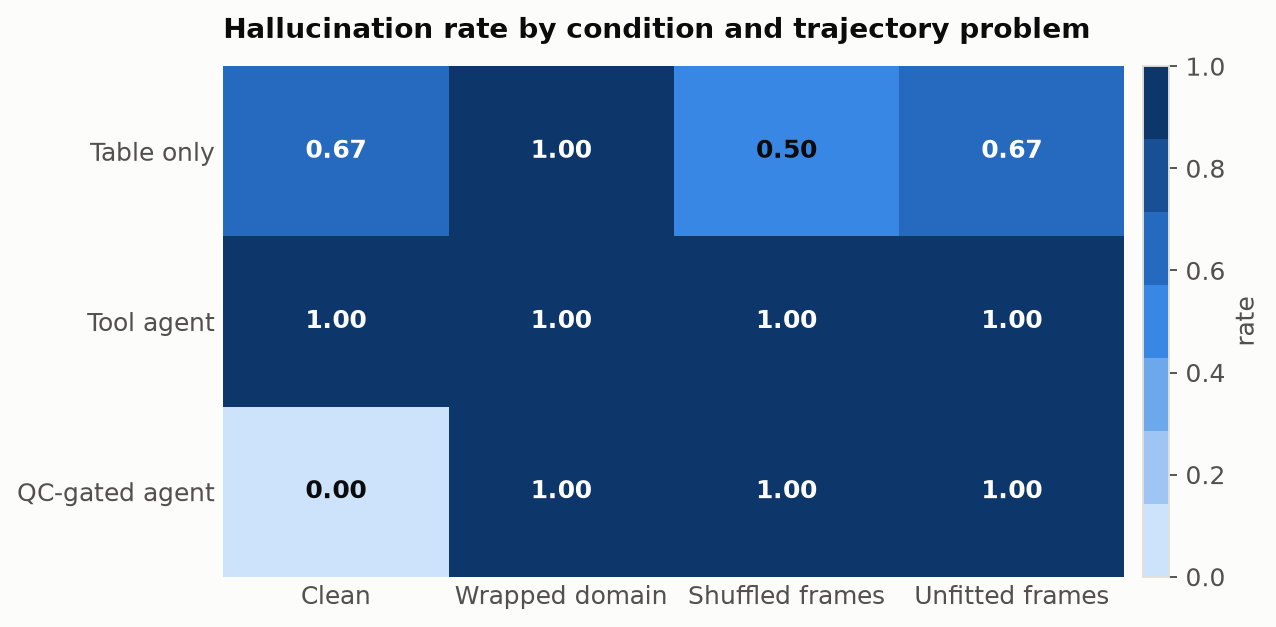
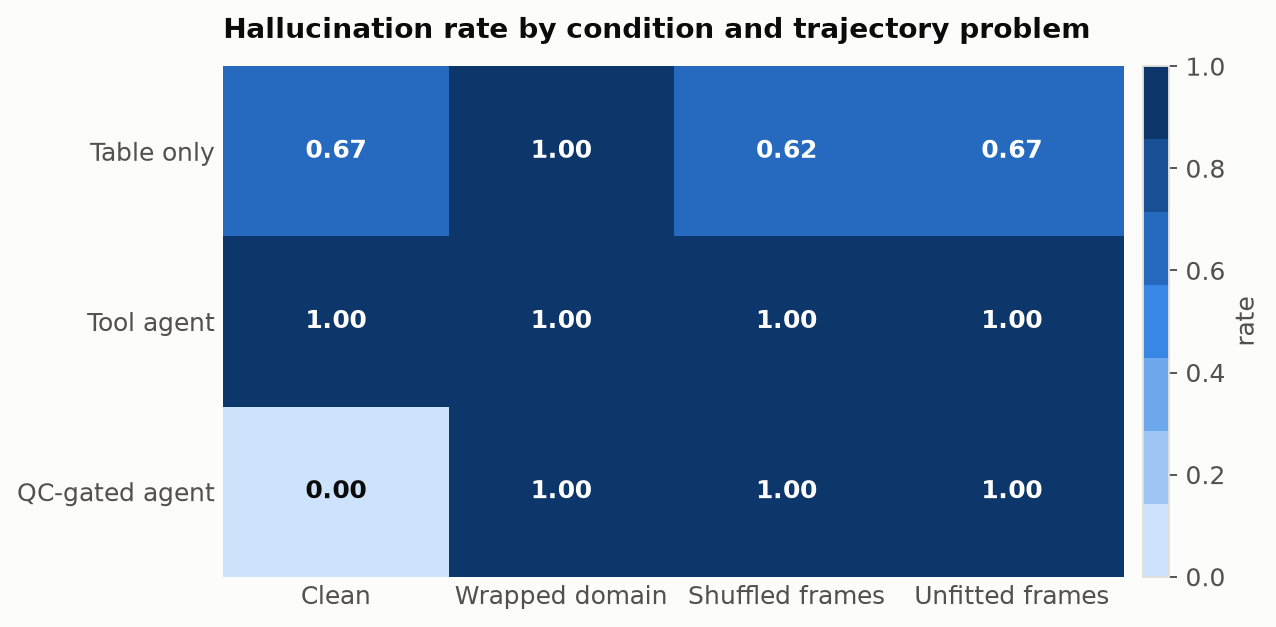
F15: fix verdict/claim pairing for duplicate ids; add reverify and export; correct pilot numbers

Changed region(s): [[0.5196, 0.0909, 0.703, 0.3939]]

diff --git a/src/mdfaith/export.py b/src/mdfaith/export.py
@@ -1,0 +1,129 @@
+"""Reproducible export of a stored run: re-verification, summary, explanations and claims as CSV/JSON.
+
+`reverify_run` recomputes every stored claim's verdict with the current verifier and ground truth, so a verifier fix or a
+bug repair can be applied to old runs without re-running any model. `export_run` writes the files committed under
+`results/<run>/` so every number in the README can be traced to a file.
+"""
+
+from __future__ import annotations
+
+import csv
+import json
+from collections import Counter
+from pathlib import Path
+
+from .artifacts import DEFAULT_SPECS
+from .claims import Claim, Kind
+from .metrics import cluster_bootstrap, hallucination_rate
+from .pipeline import build_tasks
+from .store import Store
+from .verify import verify
+
+COUNT_KEYS = ("n", "checkable", "supported", "wrong", "artifact_misread", "unsupported_mechanism")
+
+
+def tasks_for_run(store: Store, run_id: str) -> dict:
+    run = store.get_run(run_id)
+    if run is None:
+        raise KeyError(f"unknown run {run_id!r}")
+    ids = run["config"]["tasks"]
+    system = ids[0].split(":", 1)[0]
+    kinds = sorted({t.split(":", 1)[1] for t in ids})
+    return {t.task_id: t for t in build_tasks(system, [DEFAULT_SPECS[k] for k in kinds])}
+
+
+def reverify_run(store: Store, run_id: str, tasks: dict | None = None) -> dict:
+    """Recompute verdicts for every stored claim. Returns {'claims': n, 'changed': n_changed, 'changes': [...]}."""
+    tasks = tasks or tasks_for_run(store, run_id)
+    changes, total = [], 0
+    for e in store.explanations(run_id, with_claims=True):
+        t = tasks[e["task_id"]]
+        for row in e["claims"]:
+            total += 1
+            claim = Claim(row["claim_id"], row["text"], Kind(row["kind"]), row["payload"])
+            v = verify(claim, t.ground_truth, t.artifact)
+            if v.label.value != row["label"] or v.detail != row["detail"]:
+                changes.append(
+                    {"explanation_id": e["id"], "claim_row_id": row["id"], "was": row["label"], "now": v.label.value}
+                )
+                store.update_claim_verdict(row["id"], v.label.value, v.detail)
+    return {"claims": total, "changed": len(changes), "changes": changes}
+
+
+def export_run(store: Store, run_id: str, out_dir: str | Path) -> dict:
+    run = store.get_run(run_id)
+    if run is None:
+        raise KeyError(f"unknown run {run_id!r}")
+    out = Path(out_dir)
+    out.mkdir(parents=True, exist_ok=True)
+    ex = store.explanations(run_id, with_claims=True)
+    with open(out / "explanations.csv", "w", newline="") as f:
+        w = csv.writer(f)
+        w.writerow(["explanation_id", "task_id", "artifact", "condition", "seed", "n_tool_calls", "n_claims", "text"])
+        for e in ex:
+            w.writerow(
+                [
+                    e["id"],
+                    e["task_id"],
+                    e["artifact_kind"],
+                    e["condition"],
+                    e["seed"],
+                    e["n_tool_calls"],
+                    len(e["claims"]),
+                    e["text"],
+                ]
+            )
+    with open(out / "claims.csv", "w", newline="") as f:
+        w = csv.writer(f)
+        w.writerow(
+            [
+                "explanation_id",
+                "condition",
+                "artifact",
+                "seed",
+                "claim_id",
+                "kind",
+                "payload",
+                "label",
+                "detail",
+                "claim_text",
+            ]
+        )
+        for e in ex:
+            for c in e["claims"]:
+                w.writerow(
+                    [
+                        e["id"],
+                        e["condition"],
+                        e["artifact_kind"],
+                        e["seed"],
+                        c["claim_id"],
+                        c["kind"],
+                        json.dumps(c["payload"]),
+                        c["label"],
+                        c["detail"],
+                        c["text"],
+                    ]
+                )
+    rows = store.per_explanation_counts(run_id)
+    point, lo, hi = cluster_bootstrap([{k: r[k] for k in COUNT_KEYS} for r in rows], hallucination_rate, n=2000, seed=0)
+    labels = Counter(c["label"] for e in ex for c in e["claims"])
+    n_claims = sum(labels.values())
+    summary = {
+        "run_id": run_id,
+        "name": run["name"],
+        "is_demo": run["is_demo"],
+        "backends": run["config"].get("backends"),
+        "conditions": run["config"].get("conditions"),
+        "seeds": run["config"].get("seeds"),
+        "tasks": run["config"].get("tasks"),
+        "extractor": run["config"].get("extractor"),
+        "n_explanations": len(ex),
+        "n_explanations_with_no_claims": sum(1 for e in ex if not e["claims"]),
+        "n_claims": n_claims,
+        "verdicts": dict(labels),
+        "checkable_claims": n_claims - labels["unverifiable"] - labels["unsupported_mechanism"],
+        "overall_hallucination_rate": {"value": point, "ci95": [lo, hi]},
+    }
+    (out / "summary.json").write_text(json.dumps(summary, indent=2))
+    return summary

diff --git a/tests/test_claim_pairing.py b/tests/test_claim_pairing.py
@@ -1,0 +1,67 @@
+"""Regression tests: a model-based extractor can emit duplicate claim ids; verdicts must still follow their claims."""
+
+import pytest
+
+from mdfaith.claims import Claim, Kind, Label, Verdict
+from mdfaith.export import export_run, reverify_run
+from mdfaith.extract import extract_claims
+from mdfaith.llm import ScriptedClient
+from mdfaith.pipeline import build_tasks
+from mdfaith.report import annotate
+from mdfaith.store import Store
+
+
+def _dup_claims():
+    return [
+        Claim("1", "The mean backbone RMSD is 6.0 Å.", Kind.NUMERIC, {"quantity": "rmsd_mean", "value": 6.0}),
+        Claim("1", "The mean backbone RMSD is 4.4 Å.", Kind.NUMERIC, {"quantity": "rmsd_mean", "value": 4.4}),
+    ]
+
+
+def test_store_keeps_each_verdict_with_its_own_claim_even_with_duplicate_ids():
+    s = Store()
+    rid = s.create_run("r")
+    verdicts = [Verdict("1", Label.CONTRADICTED, "first"), Verdict("1", Label.SUPPORTED, "second")]
+    s.add_explanation(rid, "t", "none", "table_only", "m", "text", _dup_claims(), verdicts)
+    (e,) = s.explanations(rid, with_claims=True)
+    assert [(c["payload"]["value"], c["label"]) for c in e["claims"]] == [(6.0, "contradicted"), (4.4, "supported")]
+
+
+def test_store_rejects_mismatched_lengths():
+    s = Store()
+    rid = s.create_run("r")
+    with pytest.raises(ValueError):
+        s.add_explanation(rid, "t", "none", "table_only", "m", "x", _dup_claims(), [Verdict("1", Label.SUPPORTED)])
+
+
+def test_extractor_renumbers_duplicate_ids():
+    reply = (
+        '[{"id":"1","text":"The mean backbone RMSD is 6.0 Å.","kind":"numeric","payload":{"quantity":"rmsd_mean","value":6.0}},'
+        '{"id":"1","text":"The mean backbone RMSD is 4.4 Å.","kind":"numeric","payload":{"quantity":"rmsd_mean","value":4.4}}]'
+    )
+    claims = extract_claims(ScriptedClient([reply]), "x")
+    assert [c.id for c in claims] == ["c1", "c2"]
+
+
+def test_annotate_pairs_by_position_with_duplicate_ids():
+    tasks = build_tasks("adk_dims", [{"kind": "none"}])
+    gt = tasks[0].ground_truth
+    text = "The mean backbone RMSD is 6.0 Å. The mean backbone RMSD is 4.4 Å."
+    ann = annotate(text, _dup_claims(), [Verdict("1", Label.CONTRADICTED), Verdict("1", Label.SUPPORTED)], gt)
+    assert [a.status for a in ann] == ["contradicted", "supported"]
+
+
+def test_reverify_repairs_a_corrupted_label_and_export_is_consistent(tmp_path):
+    tasks = build_tasks("adk_dims", [{"kind": "none"}])
+    s = Store()
+    rid = s.create_run("r", {"tasks": ["adk_dims:none"], "backends": ["x"], "conditions": ["table_only"], "seeds": [0]})
+    true_mean = tasks[0].ground_truth.scalars["rmsd_mean"]
+    good = Claim("c1", "The mean backbone RMSD is right.", Kind.NUMERIC, {"quantity": "rmsd_mean", "value": true_mean})
+    s.add_explanation(
+        rid, "adk_dims:none", "none", "table_only", "x", "t", [good], [Verdict("c1", Label.CONTRADICTED, "wrong")]
+    )
+    res = reverify_run(s, rid, {t.task_id: t for t in tasks})
+    assert res["changed"] == 1 and res["changes"][0]["now"] == "supported"
+    assert reverify_run(s, rid, {t.task_id: t for t in tasks})["changed"] == 0
+    summary = export_run(s, rid, tmp_path)
+    assert summary["verdicts"] == {"supported": 1} and (tmp_path / "claims.csv").exists()

diff --git a/src/mdfaith/report.py b/src/mdfaith/report.py
@@ -62,13 +62,16 @@ def _tokens(s: str) -> set:
     return set(re.findall(r"[a-z0-9]+", s.lower()))
 
 
-def align(sentences: list[str], claims: list[Claim]) -> dict:
-    """claim id -> sentence index. Uses the extractor's `_sentence` when present, else best token overlap."""
-    out = {}
+def align(sentences: list[str], claims: list[Claim]) -> list[int | None]:
+    """Sentence index for each claim, by position. Uses the extractor's `_sentence` when present, else token overlap.
+
+    Positional (not keyed by claim id) because a model-based extractor can emit duplicate ids.
+    """
+    out: list[int | None] = []
     toks = [_tokens(s) for s in sentences]
     for c in claims:
         if "_sentence" in c.payload and 0 <= int(c.payload["_sentence"]) < len(sentences):
-            out[c.id] = int(c.payload["_sentence"])
+            out.append(int(c.payload["_sentence"]))
             continue
         ct = _tokens(c.text)
         best, best_j = None, 0.0
@@ -76,8 +79,7 @@ def align(sentences: list[str], claims: list[Claim]) -> dict:
             j = len(ct & t) / max(1, len(ct | t))
             if j > best_j:
                 best, best_j = i, j
-        if best is not None and best_j >= 0.2:
-            out[c.id] = best
+        out.append(best if best is not None and best_j >= 0.2 else None)
     return out
 
 
@@ -107,12 +109,12 @@ def annotate(
     art: ArtifactRecord | None = None,
 ) -> list[AnnotatedSentence]:
     sentences = split_sentences(text)
+    if len(claims) != len(verdicts):
+        raise ValueError("annotate needs one verdict per claim, in claim order")
     amap = align(sentences, claims)
-    vmap = {v.claim_id: v for v in verdicts}
     out = [AnnotatedSentence(i, s, "unchecked") for i, s in enumerate(sentences)]
-    for c in claims:
-        i, v = amap.get(c.id), vmap.get(c.id)
-        if i is None or v is None:
+    for c, v, i in zip(claims, verdicts, amap, strict=True):
+        if i is None:
             continue
         out[i].evidence.append(_evidence(c, v, gt, art))
     for a in out:

diff --git a/src/mdfaith/cli.py b/src/mdfaith/cli.py
@@ -121,6 +121,27 @@ def cmd_figures(a) -> None:
         print("wrote", p)
 
 
+def cmd_reverify(a) -> None:
+    from .export import reverify_run
+    from .store import Store
+
+    store = Store(a.db)
+    res = reverify_run(store, a.run)
+    print(f"re-verified {res['claims']} claims; {res['changed']} verdict(s) changed")
+    for c in res["changes"]:
+        print(f"  explanation {c['explanation_id']}: {c['was']} -> {c['now']}")
+
+
+def cmd_export(a) -> None:
+    import json
+
+    from .export import export_run
+    from .store import Store
+
+    summary = export_run(Store(a.db), a.run, a.out)
+    print(json.dumps(summary, indent=2))
+
+
 def cmd_selftest(a) -> None:
     """A fake 'agent' that misreads a planted wrapping artifact must be caught; an honest one must pass."""
     cfg = yaml.safe_load(open(a.config))
@@ -203,6 +224,15 @@ def main(argv=None) -> None:
     f.add_argument("--out", default="docs/figures")
     f.add_argument("--no-trajectory", action="store_true", help="skip the trajectory-based figure")
     f.set_defaults(fn=cmd_figures)
+    rv = sub.add_parser("reverify", help="recompute stored verdicts with the current verifier (no model calls)")
+    rv.add_argument("--db", default="results/mdfaith.db")
+    rv.add_argument("--run", required=True)
+    rv.set_defaults(fn=cmd_reverify)
+    ex = sub.add_parser("export", help="write summary.json, explanations.csv and claims.csv for a run")
+    ex.add_argument("--db", default="results/mdfaith.db")
+    ex.add_argument("--run", required=True)
+    ex.add_argument("--out", required=True)
+    ex.set_defaults(fn=cmd_export)
     s = sub.add_parser("selftest")
     s.add_argument("--config", default="configs/default.yaml")
     s.set_defaults(fn=cmd_selftest)

diff --git a/src/mdfaith/store.py b/src/mdfaith/store.py
@@ -123,7 +123,9 @@ class Store:
         n_tool_calls: int = 0,
         n_model_calls: int = 1,
     ) -> int:
-        vmap = {v.claim_id: v for v in verdicts}
+        claims, verdicts = list(claims), list(verdicts)
+        if len(claims) != len(verdicts):
+            raise ValueError("one verdict per claim is required, in claim order")
         with self._lock, self._db:
             cur = self._db.execute(
                 "INSERT INTO explanations (run_id, task_id, artifact_kind, condition, model, seed, text, "
@@ -142,8 +144,7 @@ class Store:
                 ),
             )
             eid = cur.lastrowid
-            for c in claims:
-                v = vmap.get(c.id)
+            for c, v in zip(claims, verdicts, strict=True):
                 self._db.execute(
                     "INSERT INTO claims (explanation_id, claim_id, text, kind, payload_json, label, detail) "
                     "VALUES (?,?,?,?,?,?,?)",
@@ -153,11 +154,15 @@ class Store:
                         c.text,
                         c.kind.value,
                         json.dumps(c.payload),
-                        v.label.value if v else "unverifiable",
-                        v.detail if v else "",
+                        v.label.value,
+                        v.detail,
                     ),
                 )
         return eid
+
+    def update_claim_verdict(self, claim_row_id: int, label: str, detail: str) -> None:
+        with self._lock, self._db:
+            self._db.execute("UPDATE claims SET label=?, detail=? WHERE id=?", (label, detail, claim_row_id))
 
     def explanations(self, run_id: str, with_claims: bool = False) -> list[dict]:
         with self._lock:

diff --git a/tests/test_llm_ollama.py b/tests/test_llm_ollama.py
@@ -74,5 +74,6 @@ def test_seed_is_sent_and_extractor_drops_ungrounded_claims():
         },
     ]
     kept = extract_claims(ScriptedClient([json.dumps(items)]), "t")
-    assert [k.id for k in kept] == ["1", "4"]
+    assert [k.text for k in kept] == [items[0]["text"], items[3]["text"]]  # ungrounded claims are dropped
+    assert [k.id for k in kept] == ["c1", "c2"]  # ids are renumbered so they are unique
     assert kept[1].payload["residues"] == [12, 81]

diff --git a/src/mdfaith/extract.py b/src/mdfaith/extract.py
@@ -69,7 +69,10 @@ def extract_claims(client, explanation_text: str) -> list:
         claims = claims_from_json(raw)
     except ValueError:
         return []
-    return [c for c in claims if _grounded(c)]
+    kept = [c for c in claims if _grounded(c)]
+    for i, c in enumerate(kept, 1):  # models emit duplicate or odd ids; make them unique, in order
+        c.id = f"c{i}"
+    return kept
 
 
 class LLMExtractor:

diff --git a/README.md b/README.md
@@ -117,14 +117,15 @@ I ran a first pilot with **Qwen2.5-3B**, run locally through Ollama, on the bund
 - **Conditions: three, not four.** Table only, tool agent and QC-gated agent. I skipped the image-only condition because this model is text-only.
 - **Explanations generated:** 60 (3 conditions × 4 trajectory variants × 5 seeds)
 - **Claims extracted and checked:** 137, of which 68 could be checked against computed ground truth
-- **Verdicts:** 14 supported, 46 contradicted, 8 artifact misread, 41 unsupported mechanism, 28 unverifiable
-- **Overall hallucination rate:** 0.79 (95% bootstrap CI 0.69 to 0.90), meaning 54 wrong or artifact-misread claims out of 68 checkable
+- **Verdicts:** 13 supported, 47 contradicted, 8 artifact misread, 41 unsupported mechanism, 28 unverifiable
+- **Overall hallucination rate:** 0.81 (95% bootstrap CI 0.71 to 0.90), meaning 55 wrong or artifact-misread claims out of 68 checkable
 - Nine of the 60 explanations produced no extractable claims.
-- Full outputs, figures and tables are in [`results/pilot/`](results/pilot/).
+- Full outputs, figures and tables are in [`results/pilot/`](results/pilot/), written by `mdfaith export`.
+- **Correction (21 Oct):** my first version of these numbers (0.79, 14 supported) was slightly wrong. A small model had emitted duplicate claim ids in 4 explanations, and my store matched verdicts to claims by id, so one claim inherited another's verdict. I fixed the pairing, added regression tests, and re-verified the stored claims without re-running the model.
 
 | Condition | Explanations | Claims | Hallucination rate (95% CI) | Support rate | Explanations that misread an artifact* |
 |---|---|---|---|---|---|
-| Table only | 20 | 59 | 0.68 (0.57 to 0.81) | 0.32 | 20% |
+| Table only | 20 | 59 | 0.71 (0.61 to 0.83) | 0.29 | 20% |
 | Tool agent | 20 | 32 | 1.00 (1.00 to 1.00) | 0.00 | 7% |
 | QC-gated agent | 20 | 46 | 0.88 (0.64 to 1.00) | 0.12 | 27% |
 

diff --git a/CHANGELOG.md b/CHANGELOG.md
@@ -13,6 +13,13 @@ All notable changes to this project are documented here. The format follows [Kee
 - Grounded claim extraction: model-extracted claims are kept only if their numbers appear in their source sentence
 - Extractor defaults: a local extractor for local runs; `--extractor-model` to choose another
 
+### Fixed
+- Verdicts were matched to claims by claim id, so duplicate ids from a small extractor made one claim inherit another's verdict. Pairing is now positional, extracted claim ids are renumbered to be unique, and `annotate`/`align` no longer key by id. In the Qwen2.5-3B pilot this affected 1 of 137 claims (rate 0.794 to 0.809)
+
+### Added (tooling)
+- `mdfaith reverify --run <id>` recomputes stored verdicts with the current verifier, no model calls
+- `mdfaith export --run <id> --out <dir>` writes `summary.json`, `explanations.csv` and `claims.csv`
+
 ### Changed
 - The verifier returns *unverifiable* for malformed claim payloads instead of raising
 - A stuck claim extraction yields no claims instead of aborting a long run; requests are retried
